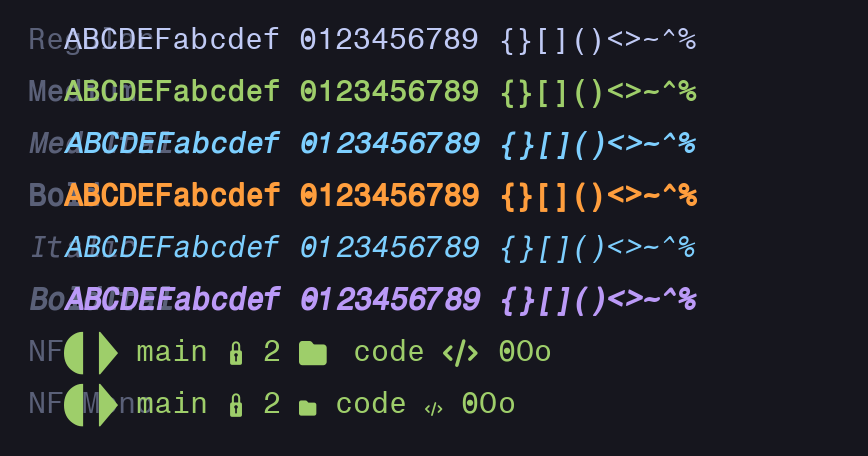
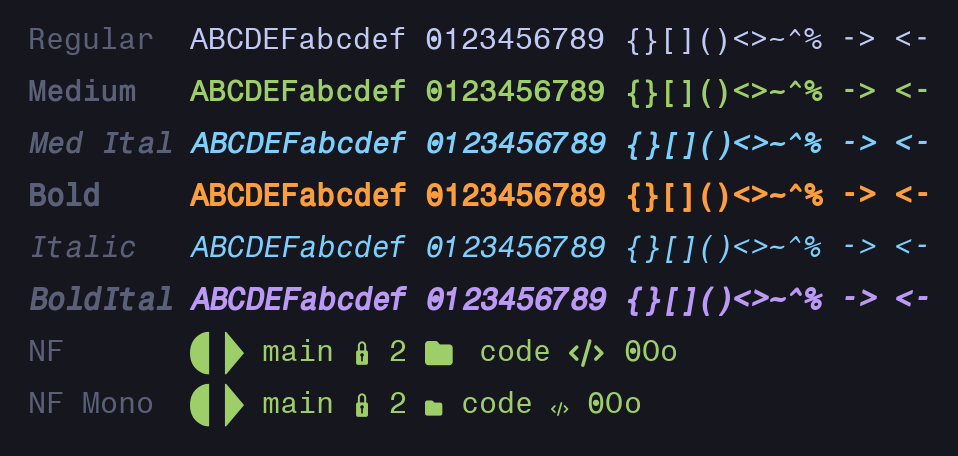
Align dash with operator centerline so arrows line up
Lift hyphen-minus onto the math axis (= + < >) via patch_arrows.py
so -> <- <= >= render on one centerline in every face; fix preview
label overlap and add an arrows row plus -> <- to the family sample.

diff --git a/scripts/patch_arrows.py b/scripts/patch_arrows.py
@@ -1,0 +1,55 @@
+#!/usr/bin/env python3
+"""Lift hyphen-minus onto the math axis so typed arrows line up.
+
+The source font hangs the hyphen at y=550 while <, >, = and + all sit
+on a math axis of ~730, so "->" and "<-" render as a step (~0.9px at
+16pt). This shifts the hyphen up to the operator centerline --
+JetBrains Mono / Fira Code convention (hyphen == minus == operator).
+
+Usage: python3 patch_arrows.py [dst] [dy]
+Edits [dst] (default tt0596m_.ttf) in place, moving the hyphen up by
+[dy] (default 180) font units.
+"""
+import sys
+
+from fontTools.ttLib import TTFont
+from fontTools.ttLib.tables._g_l_y_f import GlyphCoordinates
+from fontTools.ttLib.tables.ttProgram import Program
+
+DST = sys.argv[1] if len(sys.argv) > 1 else "tt0596m_.ttf"
+DY = int(sys.argv[2]) if len(sys.argv) > 2 else 180
+
+HYPHEN_MINUS = 0x2D  # the only dash a terminal can type
+
+
+def main() -> None:
+    f = TTFont(DST)
+    glyf = f["glyf"]
+    cmap = f.getBestCmap()
+    name = cmap.get(HYPHEN_MINUS)
+    if name is None:
+        sys.exit("no hyphen-minus mapping in cmap")
+    g = glyf[name]
+    if g.isComposite() or g.numberOfContours != 1:
+        sys.exit(f"unexpected hyphen geometry: {g.numberOfContours} contours")
+
+    # The hand-tuned TT hinting assumes the old position; executing it
+    # on the shifted outline would snap the hyphen back down (or
+    # corrupt it). Replace it with an empty program -- FreeType falls
+    # back to scaled outlines for this glyph only, same treatment as
+    # the dotted-zero patch.
+    g.program = Program()
+    g.program.fromBytecode(b"")
+
+    coords, _ends, _flags = g.getCoordinates(glyf)
+    g.coordinates = GlyphCoordinates([(x, y + DY) for x, y in coords])
+    g.recalcBounds(glyf)
+
+    f.save(DST)
+    ys = [y for _x, y in coords]
+    print(f"moved hyphen up {DY} units in {DST} "
+          f"(y {min(ys)}..{max(ys)} -> {min(ys) + DY}..{max(ys) + DY})")
+
+
+if __name__ == "__main__":
+    main()

diff --git a/scripts/make_previews.py b/scripts/make_previews.py
@@ -17,7 +17,7 @@ PLAIN = "fonts/tt0596m_.ttf"
 NF = "fonts/HE_TERMINALNerdFont-Regular.ttf"
 NFMONO = "fonts/HE_TERMINALNFMono-Regular.ttf"
 
-PLAIN_TEXT = "ABCDEFabcdef 0123456789 {}[]()<>~^%"
+PLAIN_TEXT = "ABCDEFabcdef 0123456789 {}[]()<>~^% -> <-"
 ICON_TEXT = "\ue0b6 \ue0b0 main \ue0a2 2 \uf07b code \uf121 0Oo"
 
 GLYPH_SETS = [
@@ -25,6 +25,7 @@ GLYPH_SETS = [
     ("lower ", "abcdefghijklmnopqrstuvwxyz"),
     ("digit ", "0123456789 |1lI 0Oo"),
     ("punct ", "!\"#$%&'()*+,-./:;<=>?@[\\]^_`{|}~"),
+    ("arrows ", "-> <- <-> --> <= >= => + - = a-b"),
     ("lines ", "─│┌┐└┘├┤┬┴┼═║╔╗╚╝╠╣╦╩╬←↑→↓▲▼"),
 ]
 
@@ -52,9 +53,13 @@ def render(rows: list[tuple[str, str, str, str]], out_path: str,
     fonts = [(ImageFont.truetype(p, size), lbl, txt, col)
              for p, lbl, txt, col in rows]
     probe = ImageDraw.Draw(Image.new("RGB", (8, 8)))
-    gap = int(probe.textlength("MM", font=fonts[0][0]))
-    width = max(int(probe.textlength(lbl + txt, font=f))
-                for f, lbl, txt, _ in fonts) + gap + 2 * pad_x
+    cell = int(probe.textlength("M", font=fonts[0][0]))
+    # label column = widest label + one blank cell, so sample text
+    # can never run into the category word
+    gap = max(int(probe.textlength(lbl, font=f))
+              for f, lbl, _txt, _col in fonts) + cell
+    width = max(int(probe.textlength(txt, font=f))
+                for f, _lbl, txt, _col in fonts) + gap + 2 * pad_x
     img = Image.new("RGB", (width, len(fonts) * line_h + 2 * pad_y), BG)
     draw = ImageDraw.Draw(img)
     y = pad_y

diff --git a/README.md b/README.md
@@ -1,6 +1,7 @@
 # HE_TERMINAL
 
-Personal monospaced terminal font: dotted zero, synthesized
+Personal monospaced terminal font: dotted zero, arrow-aligned
+dash, synthesized
 **Medium / Medium Italic / Bold / Italic / Bold Italic**, and
 **Nerd Fonts v3** icon patches in standard and Mono flavors. Built
 from one source TTF by a fully scripted pipeline.
@@ -52,14 +53,18 @@ make PY=$PWD/.venv/bin/python
 
 ## How it works
 
-`src/tt0596m_.ttf.orig` → dotted zero → medium/bold/oblique
-synthesis → Nerd Fonts patcher (`--complete --careful`) → name/icon fixes →
-wide + Mono variants → ttfautohint on every synthesized face.
+`src/tt0596m_.ttf.orig` → dotted zero + dash alignment →
+medium/bold/oblique synthesis → Nerd Fonts patcher (`--complete
+--careful`) → name/icon fixes → wide + Mono variants → ttfautohint
+on every synthesized face.
 
 Design notes:
 
 - Strictly monospaced cells everywhere, dotted zero in every face,
   no ligatures.
+- Hyphen-minus is lifted onto the operator centerline (`= + < >`),
+  so typed arrows `->` `<-` and comparisons `<=` `>=` line up in
+  every face.
 - The source font's own PUA icons are cleared pre-patch so proper
   Nerd Fonts outlines land there; icon outlines are unified across
   weights so they match pixel-for-pixel.
